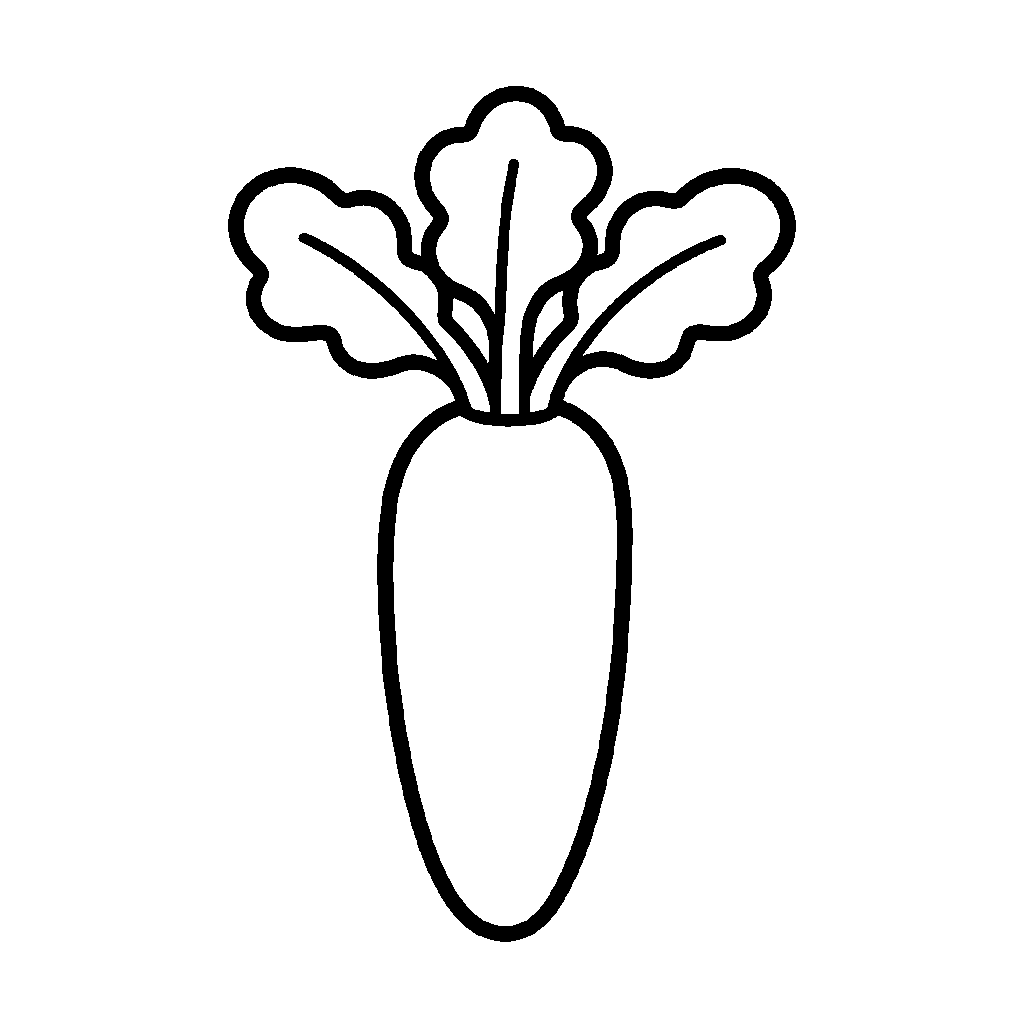
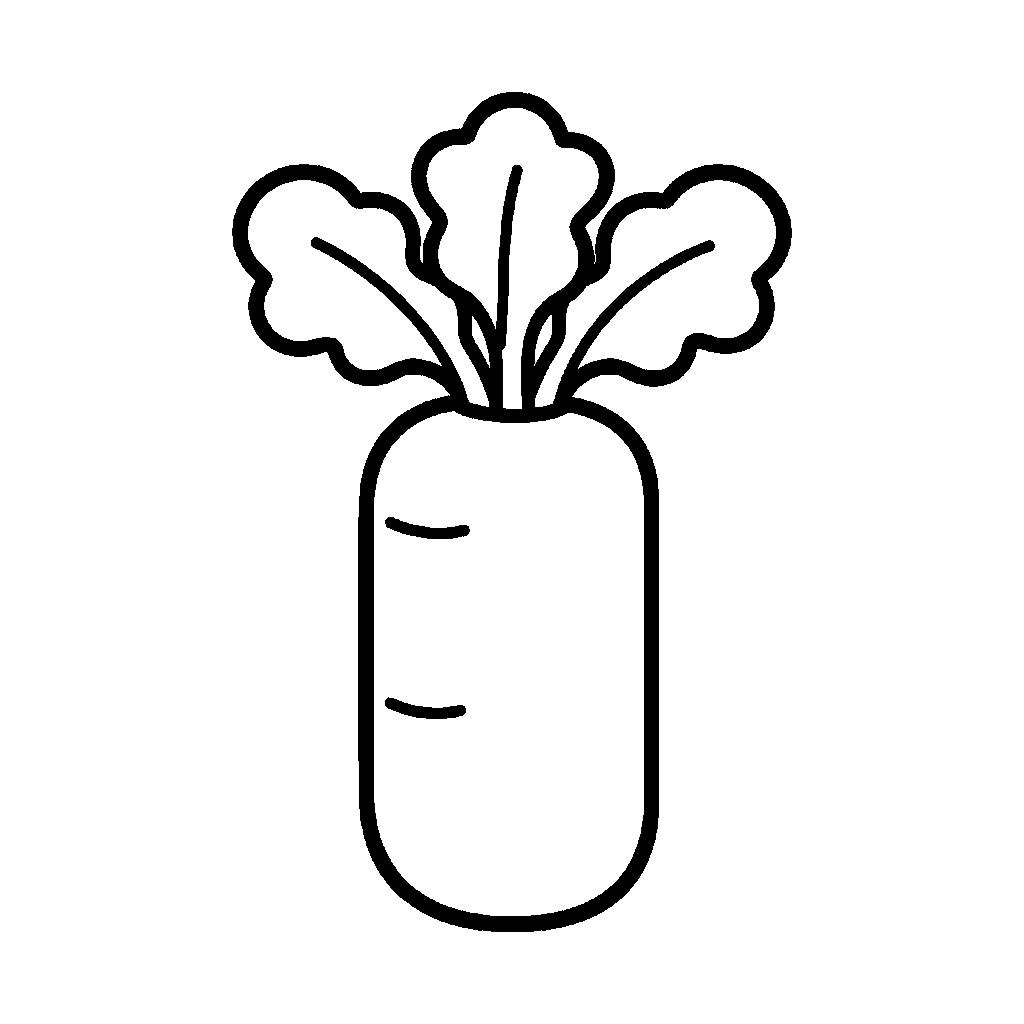
季節の絵28枚と描き直したにだいこんを追加
季節の問題が出題されるようになる．だいこんはにんじんと見分けられるようになったので語頭音の問題に戻す．

diff --git a/src/cards.ts b/src/cards.ts
@@ -52,7 +52,7 @@ export const CARDS: Card[] = [
   c('meron', 'めろん', 'kudamono', { ambiguousProduce: true }),
   c('tomato', 'とまと', 'yasai', { ambiguousProduce: true }),
   c('ninjin', 'にんじん', 'yasai'),
-  c('daikon', 'だいこん', 'yasai', { noInitial: true }), // 白黒だと にんじん と見分けにくい（描き直したら外す）
+  c('daikon', 'だいこん', 'yasai'),
   c('kabocha', 'かぼちゃ', 'yasai'),
   c('nasu', 'なす', 'yasai'),
   c('tamanegi', 'たまねぎ', 'yasai'),
